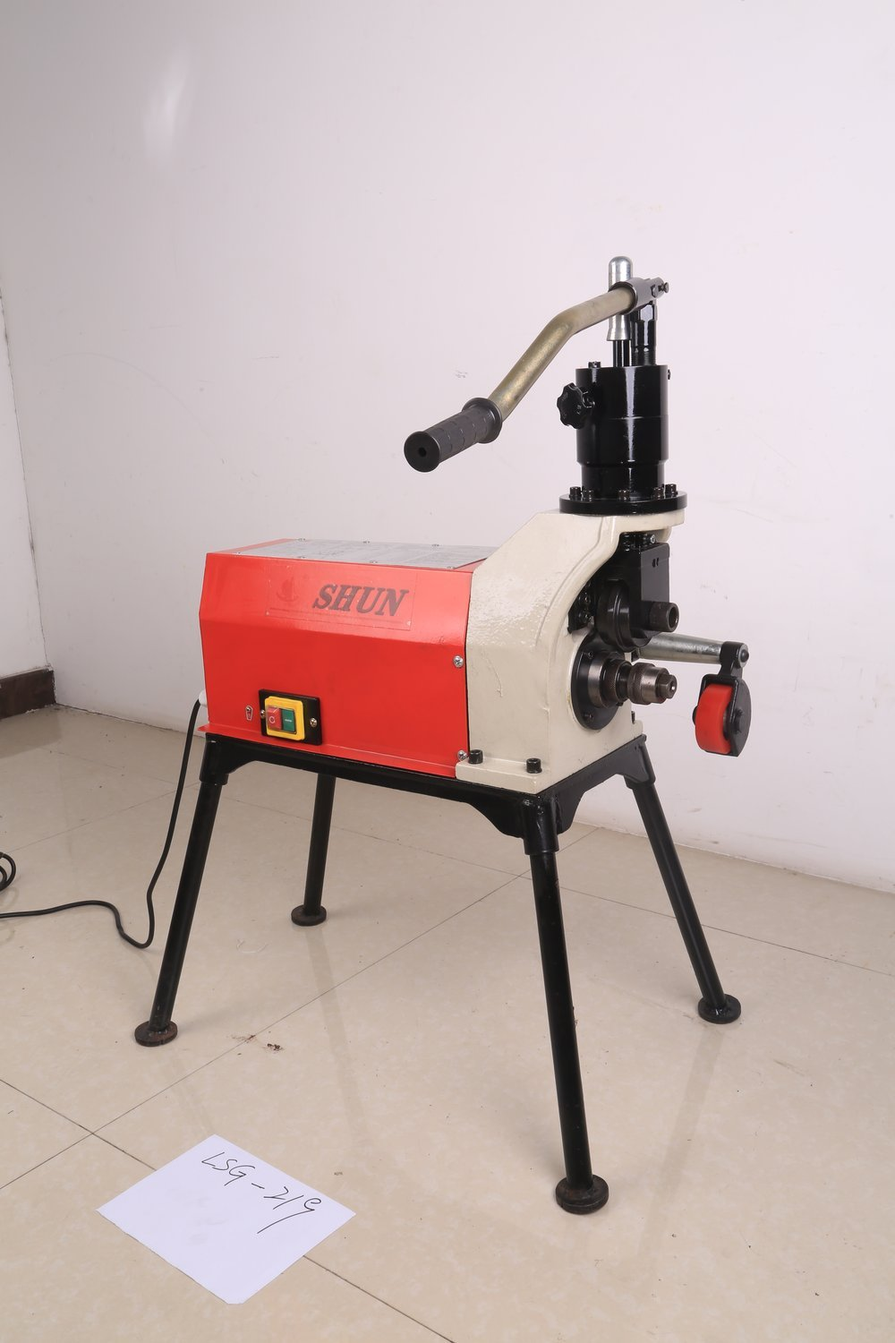
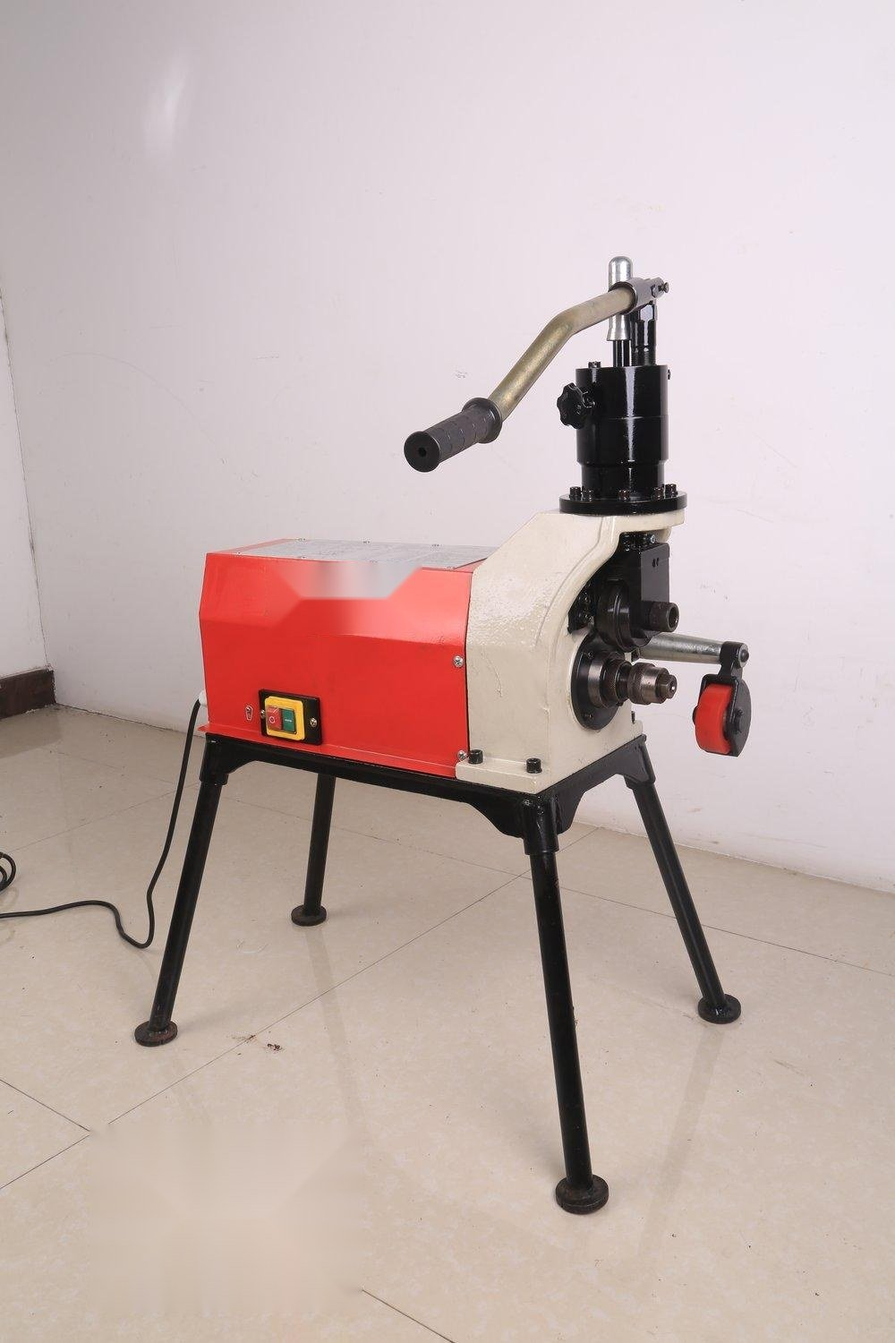
Add FLEET roll grooving, hole saw, bender, butt fusion models and threading oil; clean supplier marks; update contact details

Changed region(s): [[0.093, 0.828, 0.403, 0.9813], [0.31, 0.3987, 0.465, 0.4907]]

diff --git a/src/data/products.js b/src/data/products.js
@@ -61,6 +61,224 @@ const B = 'butt-jointing-machine'
 const S = 'spare-parts'
 
 export const products = [
+  make(R, 'fl9a-roll-grooving-machine', 'FL9A Electric Hydraulic Roll Grooving Machine (1"–8")', [I('roll-grooving/fl9a.jpg'), I('roll-grooving/fl9a-poster.jpg')], 'Electric hydraulic roll grooving machine for 1"–8" steel pipe.', {
+  description: 'An electric hydraulic roll grooving machine for steel pipe from 1" to 8". It is supplied with a pipe support stand, knurling wheels and pinch rollers for the full size range.',
+  features: ['Grooves 1"–8" Sch.10/40 steel pipe', '750 W motor with hydraulic feed', 'Pipe support stand included', 'Knurling wheels and pinch rollers for each size range'],
+  applications: ['Fire protection systems', 'HVAC and water supply lines', 'Industrial piping', 'Fabrication workshops'],
+  specifications: [
+    ['Model', 'FL9A (1" – 8")'],
+    ['Fabrication capacity', '1" – 8" (DN25–DN200, Ø33–Ø219) Sch.10/40 steel pipe'],
+    ['Max. wall thickness', '8 mm'],
+    ['Output speed', '23 RPM'],
+    ['Motor power', '750 W'],
+    ['Voltage', '250 V'],
+    ['Frequency', '50/60 Hz'],
+    ['Gross weight', '98 kg'],
+    ['Packing size', '73 × 40 × 77 cm'],
+    ['Standard accessories', 'Pipe support stand; knurling wheels 1"–1½", 2"–3", 3"–6", 8"; pinch rollers 1"–1½", 2"–6", 8"'],
+  ] }),
+  make(R, 'fl9a1-roll-grooving-machine', 'FL9A1 Electric Hydraulic Roll Grooving Machine (1"–8")', [I('roll-grooving/fl9a1.jpg')], 'Electric hydraulic roll grooving machine for 1"–8" steel pipe.', {
+  description: 'An electric hydraulic roll grooving machine for steel pipe from 1" to 8", with a hydraulic feeding pump, foot switch and pipe stand for efficient grooving on site or in the workshop.',
+  features: ['Grooves 1"–8" Sch.10/40 steel pipe', '800 W drive unit with hydraulic feeding pump', 'Foot switch and pipe stand', 'Drive and groove rollers for each size range'],
+  applications: ['Fire protection systems', 'HVAC and water supply lines', 'Industrial piping', 'Fabrication workshops'],
+  specifications: [
+    ['Model', 'FL9A1 (1" – 8")'],
+    ['Fabrication capacity', '1" – 8" (DN25–DN200, Ø33–Ø219) Sch.10/40 steel pipe'],
+    ['Max. wall thickness', '8 mm'],
+    ['Output speed', '23 RPM'],
+    ['Drive unit', '800 W, 220 V, 50/60 Hz, single phase'],
+    ['Gross weight', '98 kg'],
+    ['Packing size', '73 × 40 × 77 cm'],
+    ['Standard accessories', 'Drive rollers 1"–1½", 2"–6", 8"; groove rollers 1"–1½", 2"–6", 8"; pipe stand for 1"–8"'],
+    ['Optional accessories', 'Foot switch'],
+  ] }),
+  make(R, 'fl12a-roll-grooving-machine', 'FL12A Electric Hydraulic Roll Grooving Machine (2"–12")', [I('roll-grooving/fl12a.jpg'), I('roll-grooving/fl12a-poster.jpg')], 'Electric hydraulic roll grooving machine for 2"–12" steel pipe.', {
+  description: 'An electric hydraulic roll grooving machine for fast, accurate grooving of steel pipe from 2" to 12". It is supplied with a pipe support stand, upper rollers and knurling wheels.',
+  features: ['Grooves 2"–12" steel pipe', '1100 W motor', 'Pipe support stand included', 'Upper rollers and knurling wheels for each size range'],
+  applications: ['Fire protection systems', 'HVAC and water supply lines', 'Industrial piping', 'Fabrication workshops'],
+  specifications: [
+    ['Model', 'FL12A (2" – 12")'],
+    ['Capacity', '2"–6" for schedule 40; 8"–12" for schedule 10'],
+    ['Motor', '1100 W'],
+    ['Voltage', '220–240 V, 50 Hz'],
+    ['Speed', '24 RPM'],
+    ['Standard accessories', 'Pipe support stand; upper rollers 2"–6", 8"–12"; knurling wheels 2"–3", 4"–6", 8"–12"'],
+  ] }),
+  make(R, 'fl12a1-roll-grooving-machine', 'FL12A1 Electric Hydraulic Roll Grooving Machine (2"–12")', [I('roll-grooving/fl12a1.jpg')], 'Electric hydraulic roll grooving machine for 2"–12" steel pipe.', {
+  description: 'An electric hydraulic roll grooving machine for steel pipe from 2" to 12", supplied with a foot switch, pipe support stand, and knurling and pinch rollers.',
+  features: ['Grooves 2"–12" steel pipe', '1100 W motor', 'Foot switch and pipe support stand', 'Knurling and pinch rollers for each size range'],
+  applications: ['Fire protection systems', 'HVAC and water supply lines', 'Industrial piping', 'Fabrication workshops'],
+  specifications: [
+    ['Model', 'FL12A1 (2" – 12")'],
+    ['Size', '2" – 12"'],
+    ['Power', '1100 W'],
+    ['Voltage', '220 V'],
+    ['Weight', '115 / 125 kg'],
+    ['Packing size', '81 × 41 × 80 cm'],
+    ['Accessories', 'Knurling roller 60–76 mm / 89–165 mm / 219–325 mm; pinch roller 60–76 mm / 89–165 mm / 219–325 mm'],
+  ] }),
+  make(R, 'fl12p-roll-grooving-machine', 'FL12P Premium Electric Hydraulic Roll Grooving Machine (1"–12")', [I('roll-grooving/fl12p.jpg')], 'Premium electric hydraulic roll grooving machine for 1"–12" steel pipe.', {
+  description: 'A light-weight electric hydraulic roll grooving machine for steel pipe from 1" to 12", suited to municipal piping and fire protection systems. A hydraulic feeding pump and groove depth lock keep grooves consistent.',
+  features: ['Grooves 1"–12" steel pipe', '1100 W drive unit with hydraulic feeding pump', 'Groove depth lock for consistent grooves', 'Pipe stand and foot switch supplied'],
+  applications: ['Fire protection systems', 'HVAC and water supply lines', 'Industrial piping', 'Fabrication workshops'],
+  specifications: [
+    ['Model', 'FL12P (1" – 12")'],
+    ['Fabrication capacity', '1" – 8" (DN25–DN200, Ø33–Ø219) Sch.10/40 steel pipe; 10" – 12" (DN250–DN300, Ø254–Ø325) Sch.10/20 steel pipe'],
+    ['Max. wall thickness', '8 mm'],
+    ['Output speed', '23 RPM'],
+    ['Drive unit', '1100 W, 220 V (110 V available), 50/60 Hz, single phase'],
+    ['Gross weight', '118 kg'],
+    ['Packing size', '75 × 40 × 70 cm'],
+    ['Standard accessories', 'Drive rollers 1"–1½", 2"–3", 3½"–6", 8"–12"; groove rollers 1"–1½", 2"–6", 8"–12"; pipe stand for 1"–12"; foot switch'],
+  ] }),
+  make(R, 'fl24a-roll-grooving-machine', 'FL24A Premium Electric Hydraulic Roll Grooving Machine (8"–24")', [I('roll-grooving/fl24a.jpg')], 'Premium electric hydraulic roll grooving machine for 8"–24" steel pipe.', {
+  description: 'A heavy-duty electric hydraulic roll grooving machine for large-diameter steel pipe from 8" to 24". It is supplied with a hydraulic pipe support stand, knurl wheels, pinch rollers and a groove measuring tape.',
+  features: ['Grooves 8"–24" Sch.40 steel pipe', 'Up to 13 mm wall thickness', 'Hydraulic pipe support stand included', 'Three-phase 380–415 V supply'],
+  applications: ['Fire protection systems', 'HVAC and water supply lines', 'Industrial piping', 'Fabrication workshops'],
+  specifications: [
+    ['Model', 'FL24A (8" – 24")'],
+    ['Capacity', '8" – 24" (Ø219 – Ø630) Sch.40 pipe'],
+    ['Max. wall thickness', '13 mm'],
+    ['Voltage', '380–415 V, 50 Hz'],
+    ['Speed', '15 RPM'],
+    ['Gross weight', '340 kg'],
+    ['Standard accessories', 'Hydraulic pipe support stand; knurl wheel Ø219–Ø325, Ø377–Ø426, Ø480–Ø630 (one each); pinch roller Ø219–Ø530 and Ø630 (one each); groove measuring tape'],
+    ['Packaging size', '102 × 75 × 147 cm'],
+  ] }),
+  make(H, 'fl-114a-hole-saw-cutting-machine', 'FL-114A Hole Saw Cutting Machine', [I('hole-saw/fl-114a.jpg')], 'Portable hole cutting machine, 1500 W, up to 114 mm.', {
+  description: 'A portable 1500 W hole cutting machine for making round openings up to 114 mm in pipe, with a chain mounting for pipe from 30 to 220 mm.',
+  features: ['Cuts openings up to 114 mm', '1500 W power input', 'Mounts on pipe from 30 to 220 mm', 'Drill chuck 3–16 mm'],
+  applications: ['Branch and tee connections', 'Pipe and tube fabrication', 'Plant maintenance', 'Installation work'],
+  specifications: [
+    ['Power input', '1500 W'],
+    ['Voltage', '230 V, 50 Hz'],
+    ['Max. wall thickness', '10 mm'],
+    ['Max. cutting capacity', '114 mm'],
+    ['Pipe mounting capacity', '30 mm – 220 mm'],
+    ['Drill chuck capacity', '3 mm – 16 mm'],
+    ['Overall dimensions (L × W × H)', '26 × 24.8 × 51.3 cm'],
+    ['Net weight', '16 kg'],
+  ] }),
+  make(H, 'fl-150a-hole-saw-cutting-machine', 'FL-150A Hole Saw Cutting Machine', [], 'Portable hole cutting machine, 1500 W, up to 152 mm.', {
+  description: 'A portable 1500 W hole cutting machine for making round openings up to 152 mm in pipe, with a chain mounting for pipe from 42 to 323 mm.',
+  features: ['Cuts openings up to 152 mm', '1500 W power input', 'Mounts on pipe from 42 to 323 mm', 'Drill chuck 3–16 mm'],
+  applications: ['Branch and tee connections', 'Pipe and tube fabrication', 'Plant maintenance', 'Installation work'],
+  specifications: [
+    ['Power input', '1500 W'],
+    ['Voltage', '230 V, 50 Hz'],
+    ['Speed', '110 RPM'],
+    ['Max. wall thickness', '10 mm'],
+    ['Max. cutting capacity', '152 mm'],
+    ['Pipe mounting capacity', '42 mm – 323 mm'],
+    ['Drill chuck capacity', '3 mm – 16 mm'],
+    ['Overall dimensions (L × W × H)', '40 × 30 × 35 cm'],
+    ['Net weight', '20 kg'],
+  ] }),
+  make(C, 'chm1-pipe-cutting-machine', 'CHM1 Pipe Cutting Machine (2"–8")', [], 'Pipe cutting machine for 2" – 8" pipe, 750 W.', {
+  description: 'A 750 W single-phase pipe cutting machine for 2" – 8" pipe, for clean, accurate cuts in the workshop or on site.',
+  features: ['Cuts 2" – 8" pipe', '750 W single-phase motor', 'Up to 10 mm wall thickness', '23 RPM cutting speed'],
+  applications: ['Pipe fabrication', 'Construction and plant maintenance', 'Pipeline installation', 'Workshop production'],
+  specifications: [
+    ['Model', 'CHM1'],
+    ['Capacity', '2"–8"'],
+    ['Max. wall thickness', '10 mm'],
+    ['Speed', '23 RPM'],
+    ['Motor', '750 W, 220 V, 50 Hz, single phase'],
+  ] }),
+  make(C, 'chm2-pipe-cutting-machine', 'CHM2 Pipe Cutting Machine (2"–12")', [], 'Pipe cutting machine for 2" – 12" pipe, 750 W.', {
+  description: 'A 750 W single-phase pipe cutting machine for 2" – 12" pipe, for clean, accurate cuts in the workshop or on site.',
+  features: ['Cuts 2" – 12" pipe', '750 W single-phase motor', 'Up to 10 mm wall thickness', '23 RPM cutting speed'],
+  applications: ['Pipe fabrication', 'Construction and plant maintenance', 'Pipeline installation', 'Workshop production'],
+  specifications: [
+    ['Model', 'CHM2'],
+    ['Capacity', '2"–12"'],
+    ['Max. wall thickness', '10 mm'],
+    ['Speed', '23 RPM'],
+    ['Motor', '750 W, 220 V, 50 Hz, single phase'],
+  ] }),
+  make('pipe-bending-machines', 'hb-50-hydraulic-pipe-bender', 'HB-50 Hydraulic Pipe Bender', [I('pipe-bending/hb-50.jpg')], 'Hydraulic pipe bender for ½"–2" pipe, supplied with six bending dies.', {
+  description: 'A hydraulic pipe bender for accurate, clean bends in pipe from ½" to 2". A heavy-duty steel frame and hydraulic power system make bending smooth and effortless, and six bending dies cover the full size range.',
+  features: ['Bends pipe from ½" to 2" (21.3–60 mm)', 'Hydraulic power system', 'Heavy-duty steel frame', 'Six bending dies: ½", ¾", 1", 1¼", 1½", 2"'],
+  applications: ['Plumbing and HVAC', 'Automotive', 'Industrial and mechanical works'],
+  specifications: [
+    ['Model', 'HB-50'],
+    ['Size', '½" – 2" (21.3 – 60 mm)'],
+    ['Max. pressure', '45 MPa'],
+    ['Max. stroke', '250 mm'],
+    ['Wall thickness', '2.75 – 4.5 mm'],
+    ['Bending dies', '½", ¾", 1", 1¼", 1½", 2"'],
+    ['Die ½"', 'A 115 mm · B 67.5 mm · min. bend radius 50.2 mm · D 22 mm · Sch.40 / Sch.80 wall 2.8 / 3.7 mm'],
+    ['Die ¾"', 'A 131 mm · B 84.5 mm · min. bend radius 66 mm · D 28 mm · Sch.40 / Sch.80 wall 2.9 / 3.9 mm'],
+    ['Die 1"', 'A 147 mm · B 96.5 mm · min. bend radius 75.4 mm · D 34 mm · Sch.40 / Sch.80 wall 3.4 / 4.5 mm'],
+    ['Die 1¼"', 'A 197 mm · B 134 mm · min. bend radius 108.7 mm · D 43 mm · Sch.40 wall 3.6 mm'],
+    ['Die 1½"', 'A 242 mm · B 162 mm · min. bend radius 133.5 mm · D 50 mm · Sch.40 wall 3.7 mm'],
+    ['Die 2"', 'A 297 mm · B 238 mm · min. bend radius 199.2 mm · D 62 mm · Sch.40 wall 3.9 mm'],
+  ] }),
+  make('pipe-bending-machines', 'portable-conduit-pipe-bender', 'Portable Conduit Pipe Bender', [], 'Portable bender for 20–32 mm conduit pipe.', {
+  description: 'A portable bender for making bends in conduit pipe from 20 to 32 mm in diameter, easy to carry to the job.',
+  features: ['Bends 20–32 mm conduit pipe', 'Portable'],
+  applications: ['Electrical conduit installation', 'Site work'],
+  specifications: [
+    ['Type', 'Portable conduit pipe bender'],
+    ['Capacity', '20 – 32 mm dia conduit pipe'],
+  ] }),
+  make('butt-jointing-machine', 'ls-160m-hdpe-butt-fusion-machine', 'LS-160M HDPE Butt Fusion Machine', [I('butt-jointing/ls-160m.jpg')], 'HDPE butt fusion machine.', {
+  description: 'LS-160M butt fusion machine for jointing HDPE pipe. Contact us for the pipe sizes and configuration available.',
+  features: ['HDPE pipe butt fusion', 'Accurate pipe alignment', 'Technical support available'],
+  applications: ['Water and gas distribution', 'Pipeline construction', 'Industrial piping'],
+  specifications: [
+    ['Model', 'LS-160M'],
+    ['Other specifications', 'Available on request'],
+  ] }),
+  make('butt-jointing-machine', 'ls-200m-hdpe-butt-fusion-machine', 'LS-200M HDPE Butt Fusion Machine', [I('butt-jointing/ls-200m.jpg')], 'HDPE butt fusion machine.', {
+  description: 'LS-200M butt fusion machine for jointing HDPE pipe. Contact us for the pipe sizes and configuration available.',
+  features: ['HDPE pipe butt fusion', 'Accurate pipe alignment', 'Technical support available'],
+  applications: ['Water and gas distribution', 'Pipeline construction', 'Industrial piping'],
+  specifications: [
+    ['Model', 'LS-200M'],
+    ['Other specifications', 'Available on request'],
+  ] }),
+  make('butt-jointing-machine', 'ls-250m-hdpe-butt-fusion-machine', 'LS-250M HDPE Butt Fusion Machine', [I('butt-jointing/ls-250m.jpg')], 'HDPE butt fusion machine.', {
+  description: 'LS-250M butt fusion machine for jointing HDPE pipe. Contact us for the pipe sizes and configuration available.',
+  features: ['HDPE pipe butt fusion', 'Accurate pipe alignment', 'Technical support available'],
+  applications: ['Water and gas distribution', 'Pipeline construction', 'Industrial piping'],
+  specifications: [
+    ['Model', 'LS-250M'],
+    ['Other specifications', 'Available on request'],
+  ] }),
+  make('butt-jointing-machine', 'ls-315h-hdpe-butt-fusion-machine', 'LS-315H HDPE Butt Fusion Machine', [I('butt-jointing/ls-315h.jpg')], 'HDPE butt fusion machine.', {
+  description: 'LS-315H butt fusion machine for jointing HDPE pipe. Contact us for the pipe sizes and configuration available.',
+  features: ['HDPE pipe butt fusion', 'Accurate pipe alignment', 'Technical support available'],
+  applications: ['Water and gas distribution', 'Pipeline construction', 'Industrial piping'],
+  specifications: [
+    ['Model', 'LS-315H'],
+    ['Other specifications', 'Available on request'],
+  ] }),
+  make('butt-jointing-machine', 'ls-355h-hdpe-butt-fusion-machine', 'LS-355H HDPE Butt Fusion Machine', [I('butt-jointing/ls-355h.jpg')], 'HDPE butt fusion machine.', {
+  description: 'LS-355H butt fusion machine for jointing HDPE pipe. Contact us for the pipe sizes and configuration available.',
+  features: ['HDPE pipe butt fusion', 'Accurate pipe alignment', 'Technical support available'],
+  applications: ['Water and gas distribution', 'Pipeline construction', 'Industrial piping'],
+  specifications: [
+    ['Model', 'LS-355H'],
+    ['Other specifications', 'Available on request'],
+  ] }),
+  make('butt-jointing-machine', 'ls-450h-hdpe-butt-fusion-machine', 'LS-450H HDPE Butt Fusion Machine', [I('butt-jointing/ls-450h.jpg')], 'HDPE butt fusion machine.', {
+  description: 'LS-450H butt fusion machine for jointing HDPE pipe. Contact us for the pipe sizes and configuration available.',
+  features: ['HDPE pipe butt fusion', 'Accurate pipe alignment', 'Technical support available'],
+  applications: ['Water and gas distribution', 'Pipeline construction', 'Industrial piping'],
+  specifications: [
+    ['Model', 'LS-450H'],
+    ['Other specifications', 'Available on request'],
+  ] }),
+  make(S, 'pipe-threading-oil', 'Pipe Threading Oil', [I('spare-parts/pipe-threading-oil.jpg')], 'Thread cutting oil for smooth threads and longer machine life. Packs of 5, 10 and 20 litres.', {
+  description: 'FLEET pipe threading oil is a thread cutting oil for pipe threading machines, giving smooth thread finish and longer machine life. Available in 5 litre, 10 litre and 20 litre packs.',
+  features: ['Smooth thread finish', 'Helps extend threading machine life', 'Available in 5, 10 and 20 litre packs'],
+  applications: ['Pipe threading machines', 'Threading dies and die heads'],
+  specifications: [
+    ['Product', 'Pipe threading oil'],
+    ['Packing sizes', '5 L, 10 L, 20 L'],
+  ] }),
+
   // Products with photos from the supplier image folders — only the model code is known, so specifications stay "on request".
   make(R, 'lsg-219-roll-grooving-machine', 'LSG-219 Roll Grooving Machine', [I('roll-grooving/lsg-219.jpg')], 'Stand-mounted roll grooving machine for steel pipe.', { model: 'LSG-219', specifications: [['Model', 'LSG-219'], ['Other specifications', 'Available on request']] }),
   make(R, 'lsg-325-roll-grooving-machine', 'LSG-325 Roll Grooving Machine', [I('roll-grooving/lsg-325.jpg')], 'Stand-mounted roll grooving machine for steel pipe.', { model: 'LSG-325', specifications: [['Model', 'LSG-325'], ['Other specifications', 'Available on request']] }),
@@ -183,6 +401,12 @@ export const products = [
     ['Weight', '20 kg'],
     ['Standard accessories', 'Die heads (½", ¾", 1½", 2"), oil gun, gloves, L key, screwdriver, fix holder, cleaning brush'],
   ] }),
+
+  make(T, 'z1t-50a-pipe-threading-machine', 'Z1T-50A Pipe Threading Machine', [I('pipe-threading/z1t-50a.jpg')], 'Stand-mounted electric pipe threading machine.', { model: 'Z1T-50A', specifications: [['Model', 'Z1T-50A'], ['Other specifications', 'Available on request']] }),
+  make(T, 'z1t-r4-pipe-threading-machine', 'Z1T-R4 Pipe Threading Machine', [I('pipe-threading/z1t-r4.jpg'), I('pipe-threading/z1t-r4-photo.jpg')], 'Stand-mounted electric pipe threading machine.', { model: 'Z1T-R4', specifications: [['Model', 'Z1T-R4'], ['Other specifications', 'Available on request']] }),
+  make(T, 'z1t-r65-pipe-threading-machine', 'Z1T-R65 Pipe Threading Machine', [I('pipe-threading/z1t-r65.jpg')], 'Stand-mounted electric pipe threading machine.', { model: 'Z1T-R65', specifications: [['Model', 'Z1T-R65'], ['Other specifications', 'Available on request']] }),
+  make(T, 'gmte-02-portable-pipe-threader', 'GMTE-02 Portable Pipe Threader', [I('pipe-threading/gmte-02.jpg'), I('pipe-threading/gmte-02-case.jpg')], 'Portable electric pipe threader supplied in a carry case with die heads.', { model: 'GMTE-02', specifications: [['Model', 'GMTE-02'], ['Other specifications', 'Available on request']] }),
+  make(T, 'gmte-03-portable-pipe-threader', 'GMTE-03 Portable Pipe Threader', [I('pipe-threading/gmte-03.jpg'), I('pipe-threading/gmte-03-case.jpg')], 'Portable electric pipe threader supplied in a carry case with die heads.', { model: 'GMTE-03', specifications: [['Model', 'GMTE-03'], ['Other specifications', 'Available on request']] }),
 
   // Roll grooving
   make(R, 'rg150-roll-grooving-machine', 'RG-150 / RG-150A Roll Grooving Machine', [I('roll-grooving/rg150.jpg')], 'Hydraulic roll grooving machine for 1"–16" pipe, hand or auto pump.', {

diff --git a/src/data/gallery.js b/src/data/gallery.js
@@ -26,6 +26,26 @@ export const gallery = [
   g('k-114', 'jpg', 'K-114 Hole Saw Cutting Machine', 'hole-saw-cutting-machines', 'k-114-hole-saw-cutting-machine', 608, 640),
   g('63b-2', 'jpg', '63B-2 Socket Welding Machine', 'butt-jointing-machine', '63b-2-socket-welding-machine', 640, 478),
   g('110a', 'jpg', '110A Socket Welding Machine', 'butt-jointing-machine', '110a-socket-welding-machine', 583, 619),
+  g('z1t-50a', 'jpg', 'Z1T-50A Pipe Threading Machine', 'pipe-threading-machines', 'z1t-50a-pipe-threading-machine', 532, 640),
+  g('z1t-r4', 'jpg', 'Z1T-R4 Pipe Threading Machine', 'pipe-threading-machines', 'z1t-r4-pipe-threading-machine', 622, 640),
+  g('z1t-r65', 'jpg', 'Z1T-R65 Pipe Threading Machine', 'pipe-threading-machines', 'z1t-r65-pipe-threading-machine', 611, 640),
+  g('gmte-02', 'jpg', 'GMTE-02 Portable Pipe Threader', 'pipe-threading-machines', 'gmte-02-portable-pipe-threader', 640, 427),
+  g('gmte-03', 'jpg', 'GMTE-03 Portable Pipe Threader', 'pipe-threading-machines', 'gmte-03-portable-pipe-threader', 640, 371),
+  g('fl9a', 'jpg', 'FL9A Electric Hydraulic Roll Grooving Machine', 'roll-grooving-machine', 'fl9a-roll-grooving-machine', 439, 640),
+  g('fl9a1', 'jpg', 'FL9A1 Electric Hydraulic Roll Grooving Machine', 'roll-grooving-machine', 'fl9a1-roll-grooving-machine', 439, 640),
+  g('fl12a', 'jpg', 'FL12A Electric Hydraulic Roll Grooving Machine', 'roll-grooving-machine', 'fl12a-roll-grooving-machine', 511, 640),
+  g('fl12a1', 'jpg', 'FL12A1 Electric Hydraulic Roll Grooving Machine', 'roll-grooving-machine', 'fl12a1-roll-grooving-machine', 541, 640),
+  g('fl12p', 'jpg', 'FL12P Premium Electric Hydraulic Roll Grooving Machine', 'roll-grooving-machine', 'fl12p-roll-grooving-machine', 503, 610),
+  g('fl24a', 'jpg', 'FL24A Premium Electric Hydraulic Roll Grooving Machine', 'roll-grooving-machine', 'fl24a-roll-grooving-machine', 495, 640),
+  g('fl-114a', 'jpg', 'FL-114A Hole Saw Cutting Machine', 'hole-saw-cutting-machines', 'fl-114a-hole-saw-cutting-machine', 483, 640),
+  g('hb-50', 'jpg', 'HB-50 Hydraulic Pipe Bender', 'pipe-bending-machines', 'hb-50-hydraulic-pipe-bender', 345, 640),
+  g('pipe-threading-oil', 'jpg', 'Pipe Threading Oil', 'spare-parts', 'pipe-threading-oil', 450, 640),
+  g('ls-160m', 'jpg', 'LS-160M HDPE Butt Fusion Machine', 'butt-jointing-machine', 'ls-160m-hdpe-butt-fusion-machine', 640, 316),
+  g('ls-200m', 'jpg', 'LS-200M HDPE Butt Fusion Machine', 'butt-jointing-machine', 'ls-200m-hdpe-butt-fusion-machine', 640, 316),
+  g('ls-250m', 'jpg', 'LS-250M HDPE Butt Fusion Machine', 'butt-jointing-machine', 'ls-250m-hdpe-butt-fusion-machine', 640, 302),
+  g('ls-315h', 'jpg', 'LS-315H HDPE Butt Fusion Machine', 'butt-jointing-machine', 'ls-315h-hdpe-butt-fusion-machine', 640, 247),
+  g('ls-355h', 'jpg', 'LS-355H HDPE Butt Fusion Machine', 'butt-jointing-machine', 'ls-355h-hdpe-butt-fusion-machine', 640, 247),
+  g('ls-450h', 'jpg', 'LS-450H HDPE Butt Fusion Machine', 'butt-jointing-machine', 'ls-450h-hdpe-butt-fusion-machine', 640, 301),
   g('jk150', 'jpg', 'JK150 Roll Grooving Machine', 'roll-grooving-machine', 'jk150-roll-grooving-machine', 640, 492),
   g('kc114', 'png', 'KC114 Pipe Cutting Machine', 'pipe-cutting-machine', 'kc114-pipe-cutting-machine', 640, 640),
   g('dies-rex-1', 'jpg', 'Rex Type Threading Dies', 'spare-parts', 'rex-type-threading-dies', 640, 372),

diff --git a/src/data/company.js b/src/data/company.js
@@ -1,13 +1,15 @@
-// Business details. Address and hours are still placeholders — replace with real information.
+// Business details (from the FLEET catalogue 2026-27). Business hours are still a placeholder.
 export const company = {
   name: 'FLEET',
   legalName: 'FLEET INDUSTRIES PRIVATE LIMITED',
   tagline: 'Building the Future Together',
-  address: '[Company address]',
+  addresses: [
+    { label: 'Corporate Office / Warehouse', text: 'GF KH. NO. 91/3/2, Phirni Road, Bijwasan, New Delhi – 110061' },
+    { label: 'Bangalore Office / Warehouse', text: 'No 11, 2nd Cross, Dayanandanagar, Srirampura, Bangalore – 560021, Karnataka' },
+  ],
   strapline: 'Building the future together – with unmatched quality and dedicated service',
   phones: ['+91 83830 36046', '+91 89015 84802'],
-  email: 'info@fleetindustries.co.in',
-  supportEmail: 'support@fleetindustries.co.in',
+  email: 'fleetindustries2@gmail.com',
   hours: '[Business hours]',
   // Create a form at formspree.io and paste its endpoint here.
   formAction: 'https://formspree.io/f/YOUR_FORM_ID',

diff --git a/src/pages/Contact.jsx b/src/pages/Contact.jsx
@@ -34,7 +34,8 @@ export default function Contact() {
           <aside className="info-box">
             <h3>{company.legalName}</h3>
             <dl>
-              <dt>Address</dt><dd>{company.address}</dd>
+              <dt>Address</dt>
+              <dd>{company.addresses.map((a) => <span className="addr" key={a.label}><b>{a.label}</b>{a.text}</span>)}</dd>
               <dt>Call / Chat</dt>
               <dd>{company.phones.map((ph) => (
                 <span className="phone-row" key={ph}>
@@ -45,7 +46,6 @@ export default function Contact() {
               <dt>Email</dt>
               <dd>
                 <a href={`mailto:${company.email}`}>{company.email}</a>
-                <a href={`mailto:${company.supportEmail}`}>{company.supportEmail}</a>
               </dd>
               <dt>Hours</dt><dd>{company.hours}</dd>
             </dl>

diff --git a/src/components/Footer.jsx b/src/components/Footer.jsx
@@ -22,10 +22,9 @@ export default function Footer() {
         </div>
         <div>
           <h4>Contact</h4>
-          <p>{company.address}</p>
+          {company.addresses.map((a) => <p key={a.label}><strong>{a.label}</strong><br />{a.text}</p>)}
           {company.phones.map((ph) => <a key={ph} href={`tel:${dial(ph)}`}>{ph}</a>)}
           <a href={`mailto:${company.email}`}>{company.email}</a>
-          <a href={`mailto:${company.supportEmail}`}>{company.supportEmail}</a>
           <Link to="/contact">Send an enquiry →</Link>
         </div>
       </div>

diff --git a/src/index.css b/src/index.css
@@ -473,3 +473,6 @@ html{overflow-x:hidden}body{overflow-x:hidden;overflow-x:clip}
   .nav-quick a.wa-quick .wa-ico{width:24px;height:24px}
 }
 @media(max-width:360px){.head-contact .phones{font-size:.85rem}}
+
+.info-box .addr{display:block;margin-top:6px}.info-box .addr b{display:block;color:#fff;font-weight:600;font-size:.88rem}
+.footer p strong{color:#fff;font-weight:600}
